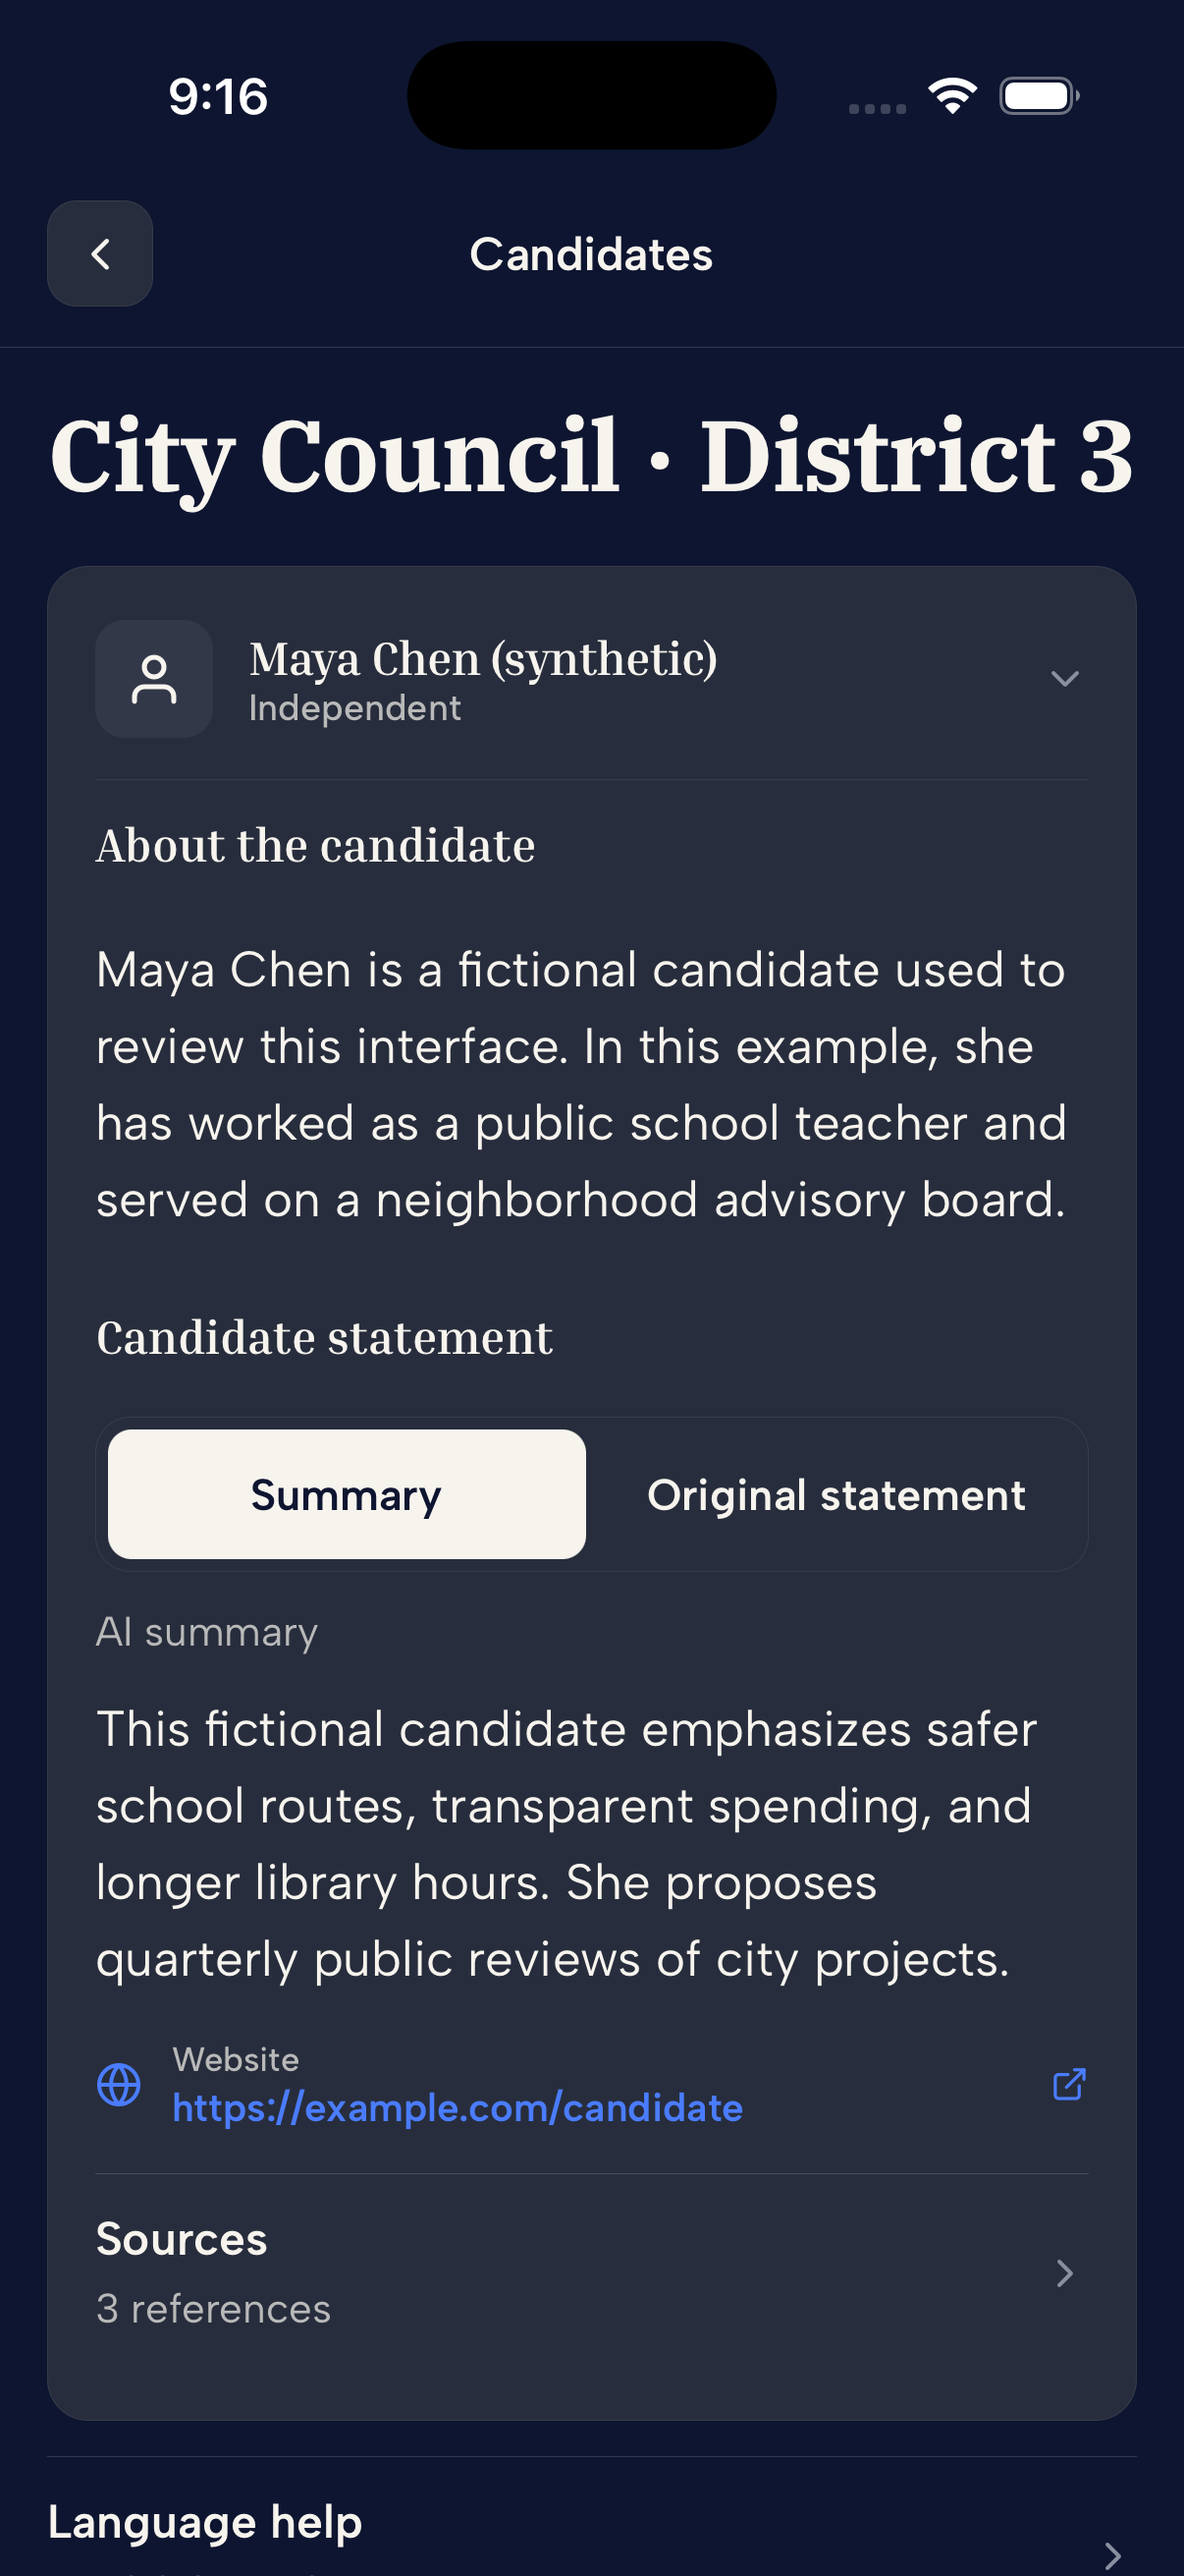
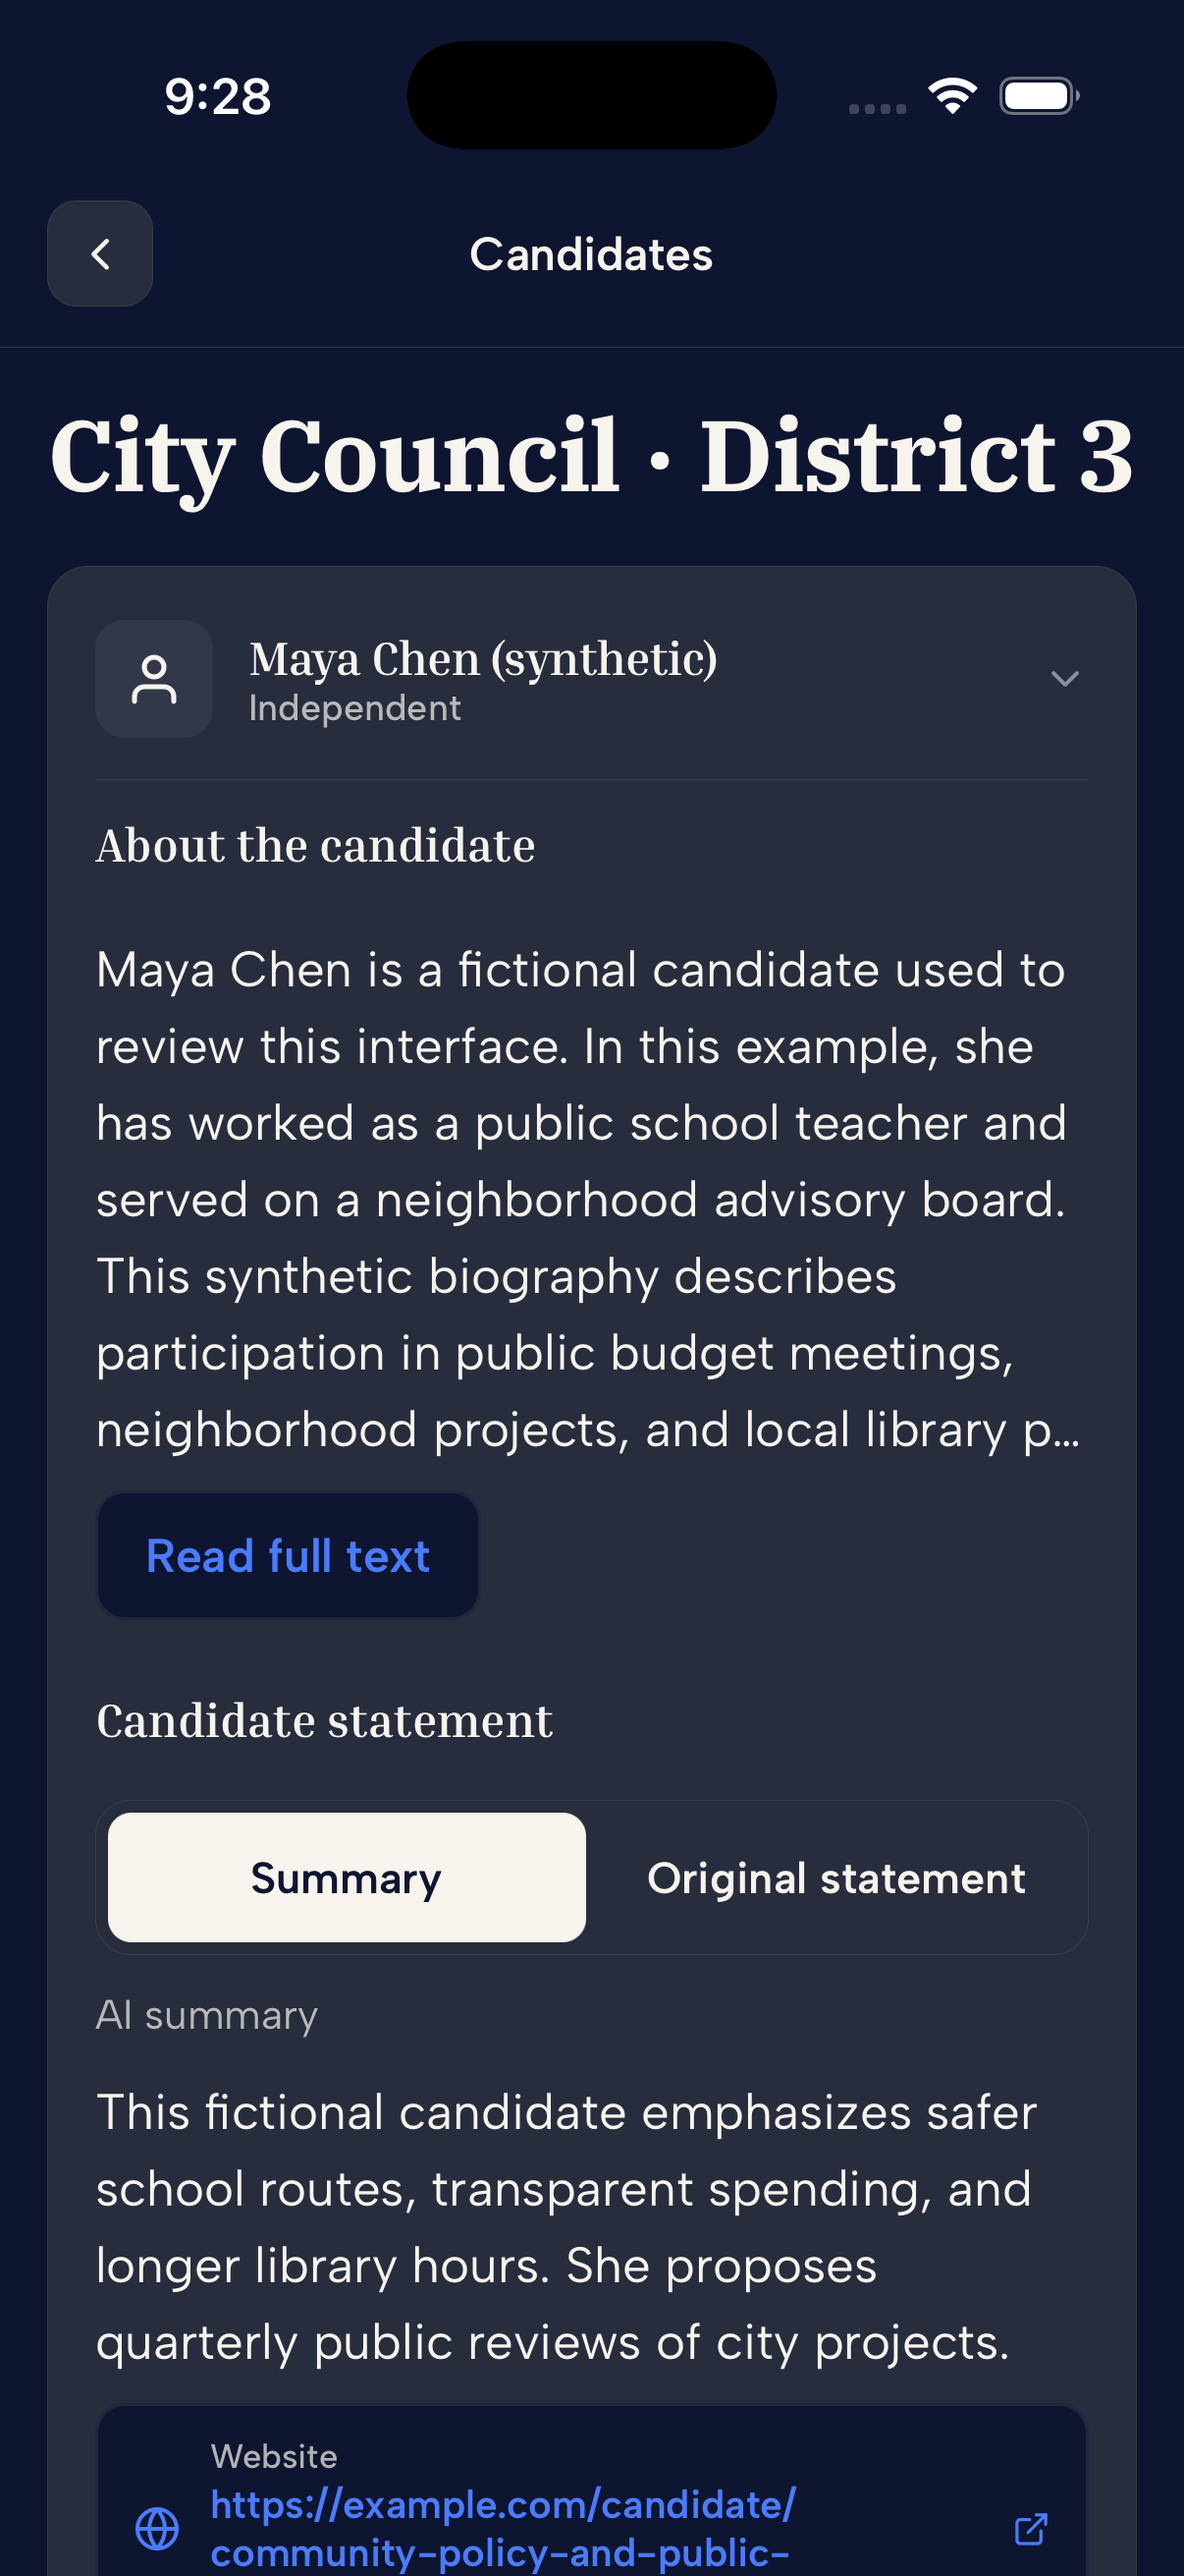
Publish full-review ballot UI evidence

diff --git a/docs/pr-evidence/369/README.md b/docs/pr-evidence/369/README.md
@@ -1,6 +1,6 @@
 # PR 369 native screenshots
 
-The running Billion development app on an iPhone 17 Pro simulator, iOS 26.5. Metro served the code in commit `5bade6ab93360cc9a3bb010083106dcc33f8834b` on localhost:8139 with temporary synthetic route fixtures. The fixtures are excluded from the product commit.
+The running Billion development app on an iPhone 17 Pro simulator, iOS 26.5. Metro served the code in commit `cdfc251cd9c53da43e9b506ca511aa8e150f0c74` on localhost:8149 with temporary synthetic route fixtures. The fixtures are excluded from the product commit.
 
 All election content, candidate names, source names and URLs are synthetic. These captures demonstrate the native interface, not live election coverage.
 
@@ -8,12 +8,15 @@ All election content, candidate names, source names and URLs are synthetic. Thes
 
 The simulator content-size category was explicitly set to `large`, the iOS default (1.0 scale), before these captures:
 
-- `measure-ios.png`: Original text selected, full supplied prose and blue source action. Screen title uses IBM Plex Serif Bold 34/38; reading heading uses Inria Serif Bold 16/19.
-- `candidate-ios.png`: Candidate card uses Inria Serif Bold 16/19, grouped reading controls and blue contact action.
-- `candidate-missing-ios.png`: Compact missing-data card with a 16/19 heading and white election-office action.
+- `measure-ios.png`: Overview and its AI label share a reading card; the original-text control stays above it. Supplied prose is preserved.
+- `candidate-ios.png`: Long biography excerpt with an expansion action, statement controls, and navy-backed blue contact action.
+- `measure-missing-ios.png`: Compact missing-data card and primary election-office recovery.
+- `measure-original-only-ios.png`: Available original text opens directly when no overview is supplied.
+
+Screen titles retain IBM Plex Serif Bold 34/38; card headings retain Inria Serif Bold 16/19. Blue `#4A7CFF` actions on navy `#0E1530` have a calculated contrast ratio of 4.81:1.
 
 ## Enlarged text, separate verification
 
-`measure-large-text-ios.png` uses `accessibility-medium`. Text scaling remains enabled; the reading control stacks and preserves the selected original-text state. This image is not the default-size design reference.
+`measure-large-text-ios.png` and `candidate-contact-large-text-ios.png` use `accessibility-medium`. Scaling remains enabled: reading controls stack, and the full contact URL wraps within its action. These images are not default-size design references.
 
-The simulator was explicitly returned to default `large` after verification. The requested blue palette is retained; these screenshots do not claim WCAG contrast compliance.
+Native interactions checked included original-only access, argument/source/language disclosures, biography expansion to its concluding sentence, enlarged collapse, and opening the candidate website in Safari. The simulator was explicitly returned to default `large` after verification. Two independent reviewers inspected the code and fresh native states and found no remaining actionable defects within the reviewed scope. This is not a full VoiceOver or live-provider audit.
